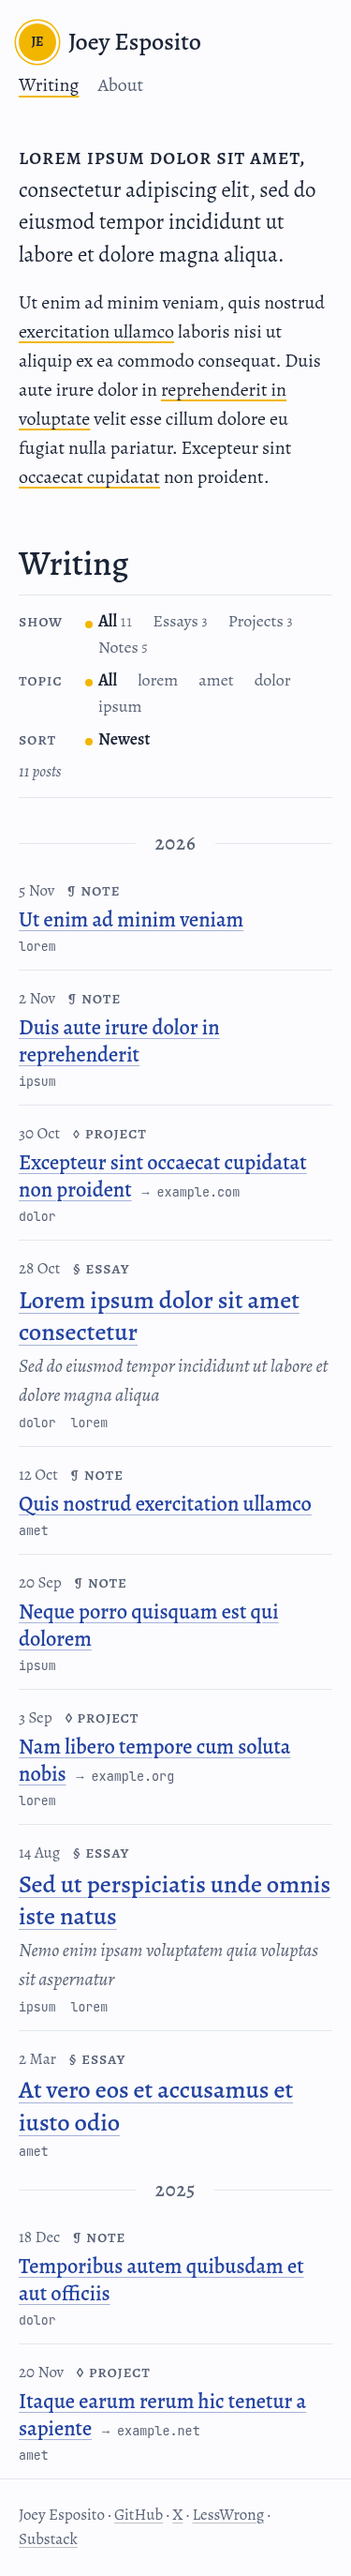
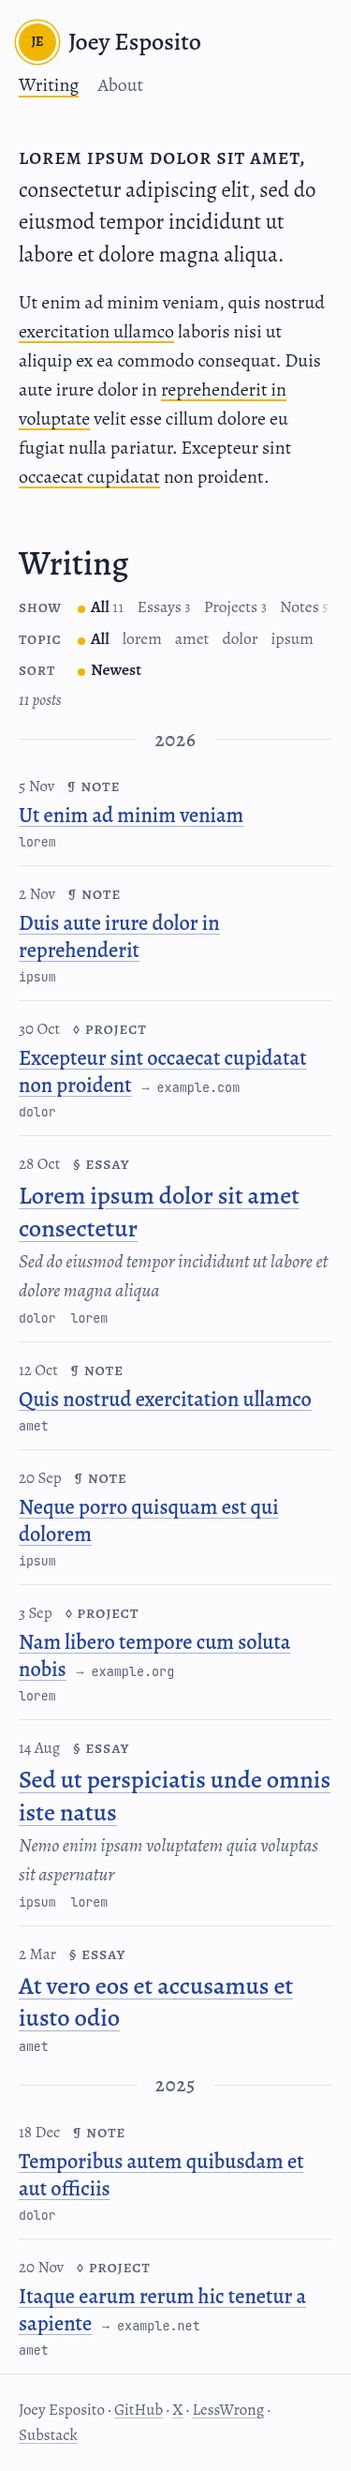
Put the list controls on one line per group on narrow screens, without rules

diff --git a/src/styles/global.css b/src/styles/global.css
@@ -154,11 +154,15 @@ body:has(.writing) .site-footer { margin-top: 0; }
 
 .writing-title { font-size: 1.8rem; margin: 0 0 0.6rem; }
 
-.filters { display: grid; gap: 0.35rem; margin: 0 0 0.25rem; padding: 0.7rem 0; border-block: 1px solid var(--rule); font-size: 0.9rem; }
-.filters fieldset { display: grid; grid-template-columns: 4.25rem minmax(0, 1fr); align-items: baseline; min-width: 0; margin: 0; padding: 0; border: 0; }
+.filters { display: grid; gap: 0.3rem; margin: 0; font-size: 0.88rem; }
+.filters fieldset { display: grid; grid-template-columns: 3.1rem minmax(0, 1fr); align-items: baseline; min-width: 0; margin: 0; padding: 0; border: 0; }
 /* Floated, the legend becomes an ordinary grid item, so it lines up as a label column. */
 .filters legend { float: left; padding: 0; color: var(--muted); }
-.filters .options { display: flex; flex-wrap: wrap; gap: 0 1.1rem; }
+/* On narrow screens each group stays on one line and scrolls sideways when it overflows; the
+   fade at the right edge says there is more. The end padding sits under the fade, so a group
+   that fits shows no fade. The start padding leaves room for the selected dot. */
+.filters .options { display: flex; gap: 0 0.7rem; overflow-x: auto; scrollbar-width: none; white-space: nowrap; padding: 0 0.8rem 0 0.75rem; mask-image: linear-gradient(to right, #000 calc(100% - 0.8rem), transparent); }
+.filters .options::-webkit-scrollbar { display: none; }
 /* The radios stay in the page for keyboard and screen-reader use; their labels are what shows. */
 .filters input { position: absolute; opacity: 0; width: 1px; height: 1px; margin: 0; }
 .filters label { cursor: pointer; }
@@ -177,13 +181,13 @@ body:has(.writing) .site-footer { margin-top: 0; }
   .writing > .filters { gap: 1.1rem; margin: 0; padding: 0.5rem 0 0 0.7rem; border: 0; font-size: 0.85rem; }
   .filters fieldset { display: block; }
   .filters legend { float: none; margin-bottom: 0.1rem; }
-  .filters .options { flex-direction: column; }
+  .filters .options { flex-direction: column; overflow: visible; white-space: normal; padding: 0; mask-image: none; }
 }
 
 /* Years divide the list; an entry is a date column and a title column, ruled beneath. */
 .year { display: flex; align-items: center; gap: 1rem; margin: 0 0 0.2rem; font-size: 1.05rem; font-weight: 500; letter-spacing: 0.04em; color: var(--muted); }
 .year::before, .year::after { content: ''; flex: 1; border-top: 1px solid var(--rule); }
-.post-list > .year:first-child { margin-top: 1.6rem; }
+.post-list > .year:first-child { margin-top: 0.6rem; }
 /* A year's divider closes the year before it, so the entry above it needs no rule. */
 .entry:has(+ .year) { border-bottom: 0; }
 

diff --git a/DESIGN.md b/DESIGN.md
@@ -60,7 +60,9 @@ Meta 0.85–0.92rem. Inline code 0.8em; code blocks 0.72rem (14.4px).
 | `--radius` | 6px |
 
 - Below 80rem (1280px): one column, `--measure` wide plus 1rem gutters. The header is a top
-  bar: avatar and name, then the nav.
+  bar: avatar and name, then the nav. The list's controls sit under the "Writing" heading
+  with no rules, one line per group; a group too long for the screen (usually Topic)
+  scrolls sideways under a fade at its right edge.
 - From 80rem: the body is a five-column grid (`1fr | rail | measure | rail | 1fr`). The
   header sits in the left rail, right-aligned and sticky: a 4.25rem avatar, the name, the
   nav. Pages that need it put a sticky panel in the right rail (`.with-rail`
